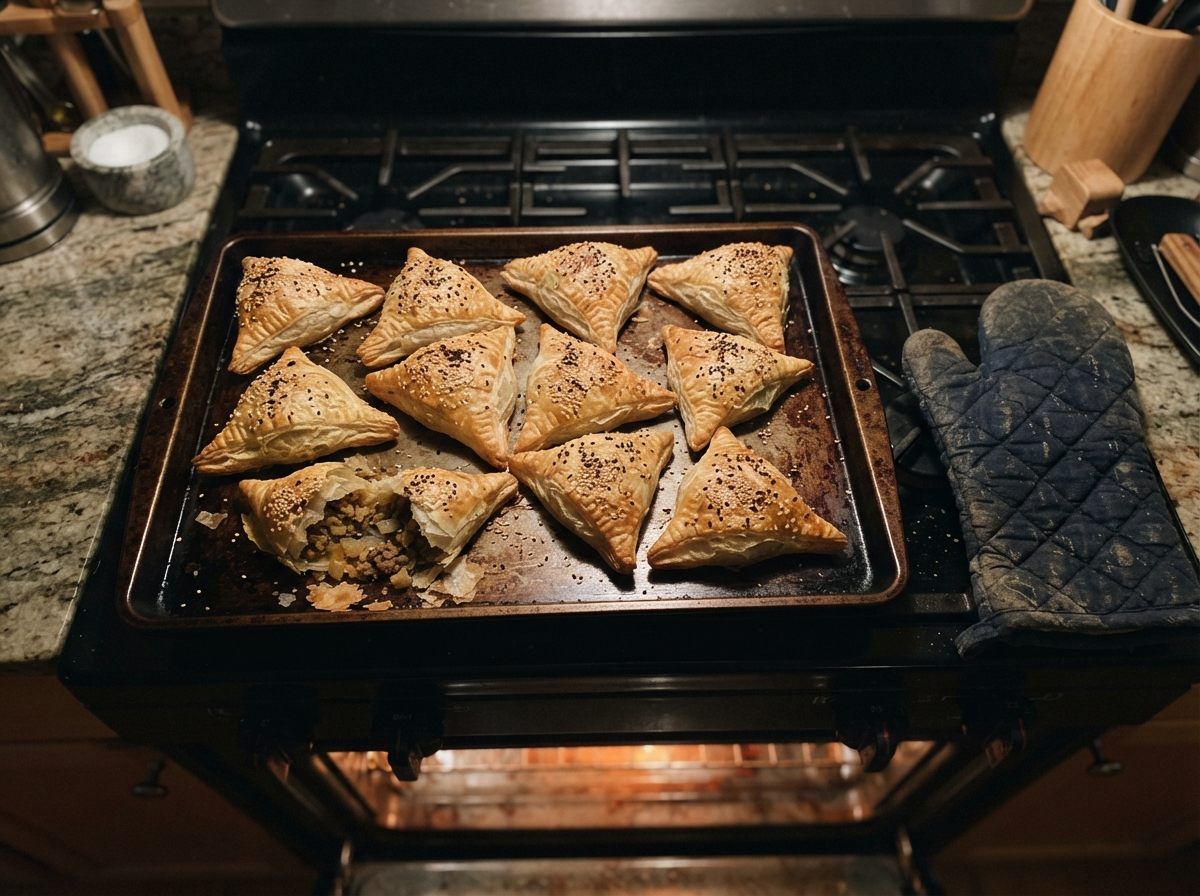
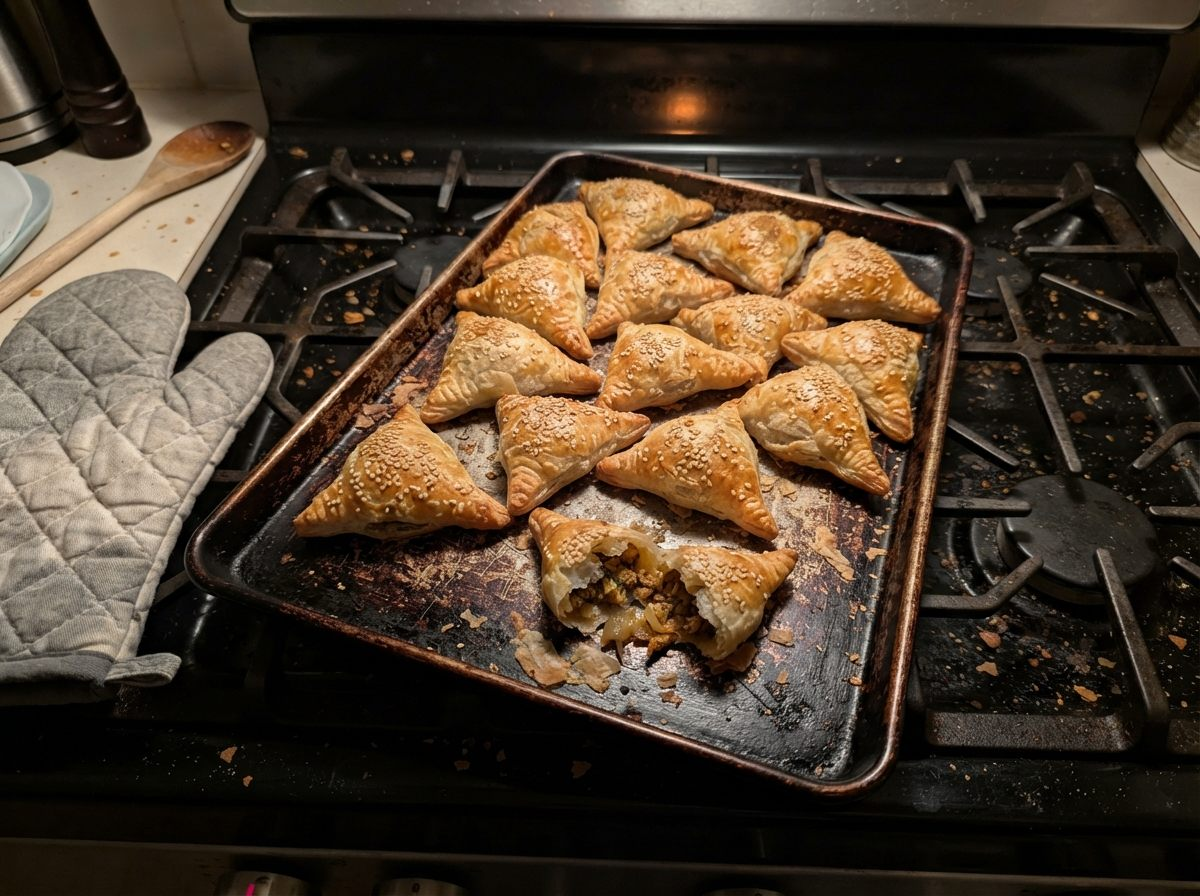
Tone photos down to a casual Google Pixel 9 Pro look
The photos looked too polished for a home blogger. The shared style now
describes an everyday Pixel 9 Pro shot: flat HDR+ processing with lifted
shadows, cool neutral colour, crisp sharpening, deep focus with no
portrait blur, smeary noise in dim light, and quick, slightly imperfect
framing. All 14 photos are regenerated in that style (Flash-Lite), and
the style now also rules out brand names on appliances and labelled
bottles, which the model tends to draw as garbled text.

diff --git a/KITCHEN.md b/KITCHEN.md
@@ -109,7 +109,7 @@ Rules for the file:
 
 You don't make the photo yourself. Add a `photo_prompt` line to the front matter (right after `occasion`) describing the shot. After you push, a GitHub Action (`.github/workflows/recipe-photos.yml`) combines it with the shared style in `tools/photo_style.txt` and generates `assets/photos/<slug>.jpg` with Google's Gemini Flash-Lite image model. Until then, the recipe shows its drawing if one exists, or no picture.
 
-The shared style only says who takes the pictures: Jibek, on her iPhone, a capable home photographer who copies popular food blogs. **The photos must not all look alike.** On the home page they sit side by side, and the same soft window light, wooden table and 45-degree angle on every one gives them away as AI. So each `photo_prompt` (3–5 sentences) sets the scene in this order:
+The shared style says who takes the pictures and how they look: Jibek, on her Google Pixel 9 Pro, a decent but casual phone photographer who copies food blogs, with the Pixel's flat HDR look, deep focus and slightly imperfect framing. Keep scenes believable for that: no dramatic or cinematic lighting. **The photos must not all look alike.** On the home page they sit side by side, and the same soft window light, wooden table and 45-degree angle on every one gives them away as AI. So each `photo_prompt` (3–5 sentences) sets the scene in this order:
 
 1. **Light and time**, chosen to differ from each of the last six posts (read their `photo_prompt` lines). Pick one, or something similar that fits the season of the posting date: overcast midday window light; early-morning low sun with long shadows; hard midday summer sun outdoors; golden-hour sun outdoors; rainy grey daylight; winter dusk with blue light outside and a warm lamp inside; evening under warm ceiling light; night under a single pendant or table lamp; cool under-cabinet LEDs on the counter; mixed oven glow and ceiling light.
 2. **Setting and surface**, also different from the last six: dining table with a tablecloth; kitchen counter (laminate or butcher block); the stovetop or straight from the oven; a breakfast nook; the living-room coffee table; a back porch or patio; a picnic blanket in a park; a crowded table at a family gathering; a church potluck table; a friend's kitchen.

diff --git a/_recipes/kumoch.md b/_recipes/kumoch.md
@@ -7,7 +7,7 @@ blurb: Our unleavened feast bread of flour, water and salt, baked over embers or
 time: 40 min
 serves: 4
 occasion: Weddings, baptisms, feasts, memorials
-photo_prompt: "Morning in the kitchen, cool blue-white daylight from a window behind the stove, a little steam. 45-degree shot. One round unleavened flatbread with a blistered, spotty crust and a flower pattern stamped into the top still in a black cast-iron pan on the gas stove, a second loaf wrapped in a white embroidered cloth on the counter beside it. No herbs, no oil."
+photo_prompt: "Morning in the kitchen, cool blue-white daylight from a window behind the stove, a little steam. 45-degree shot. One round unleavened flatbread with a blistered, spotty crust and a flower pattern stamped into the top still in a black cast-iron pan on the gas stove, a second loaf wrapped in a white embroidered cloth on the counter beside it. No herbs, no oil, no bottles on the counter, and the stove front is plain with no brand name."
 ingredients:
   - {q: 400, u: g, i: "plain flour (or half wholemeal)"}
   - {q: 1, u: tsp, i: "salt"}
